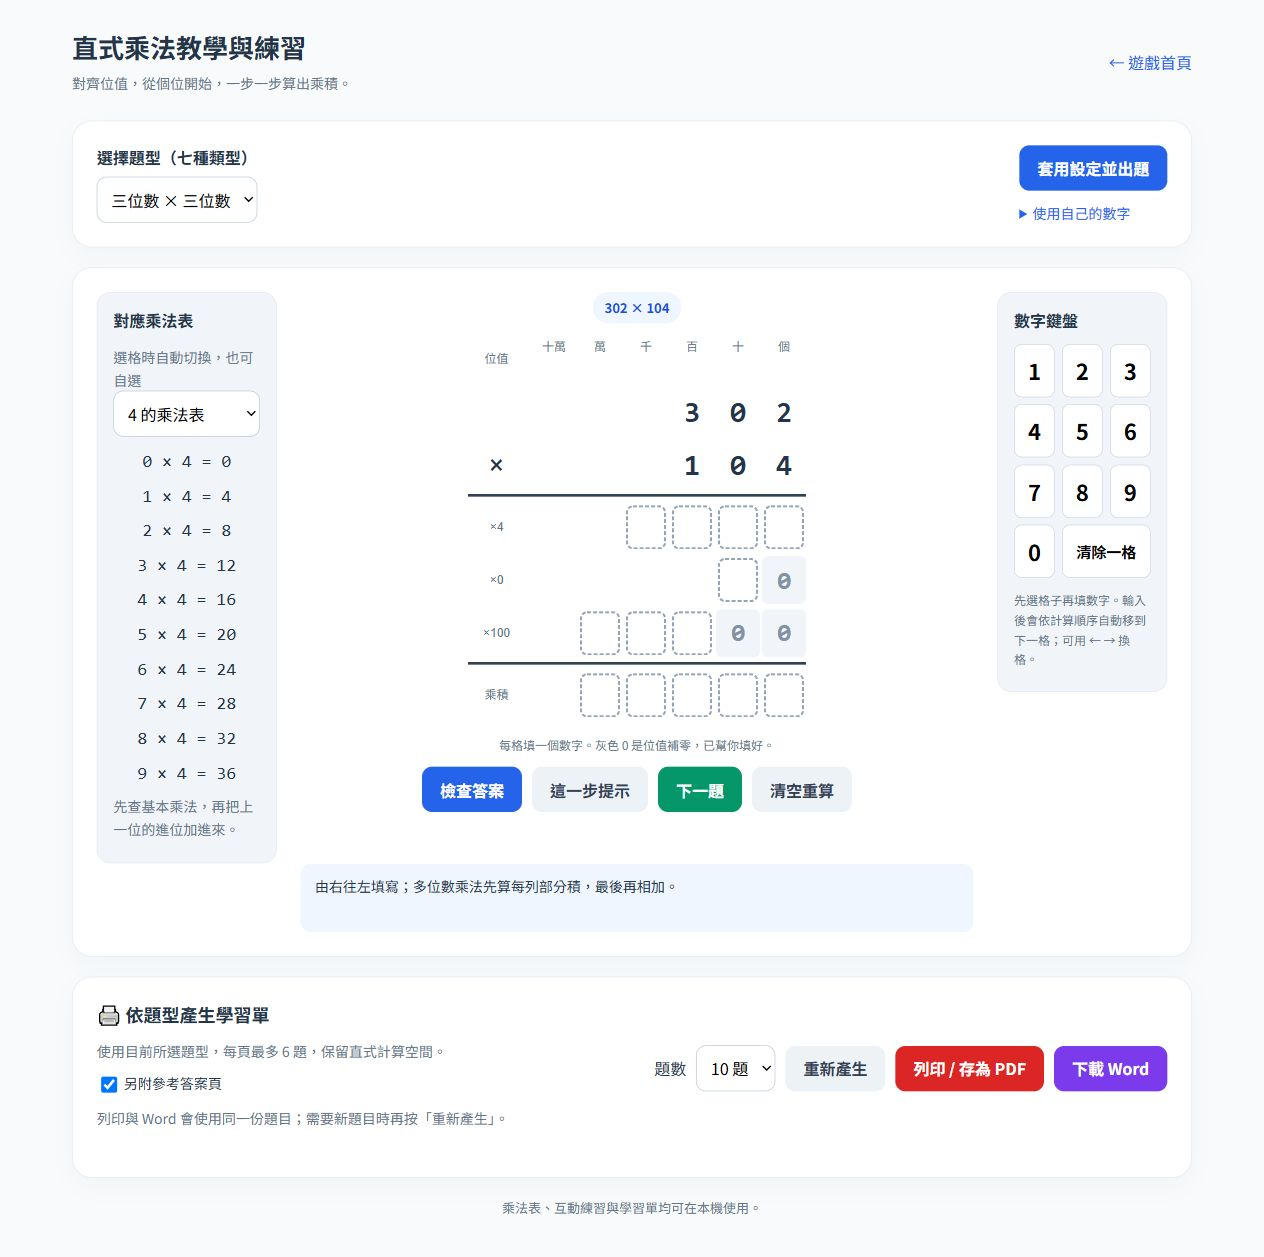
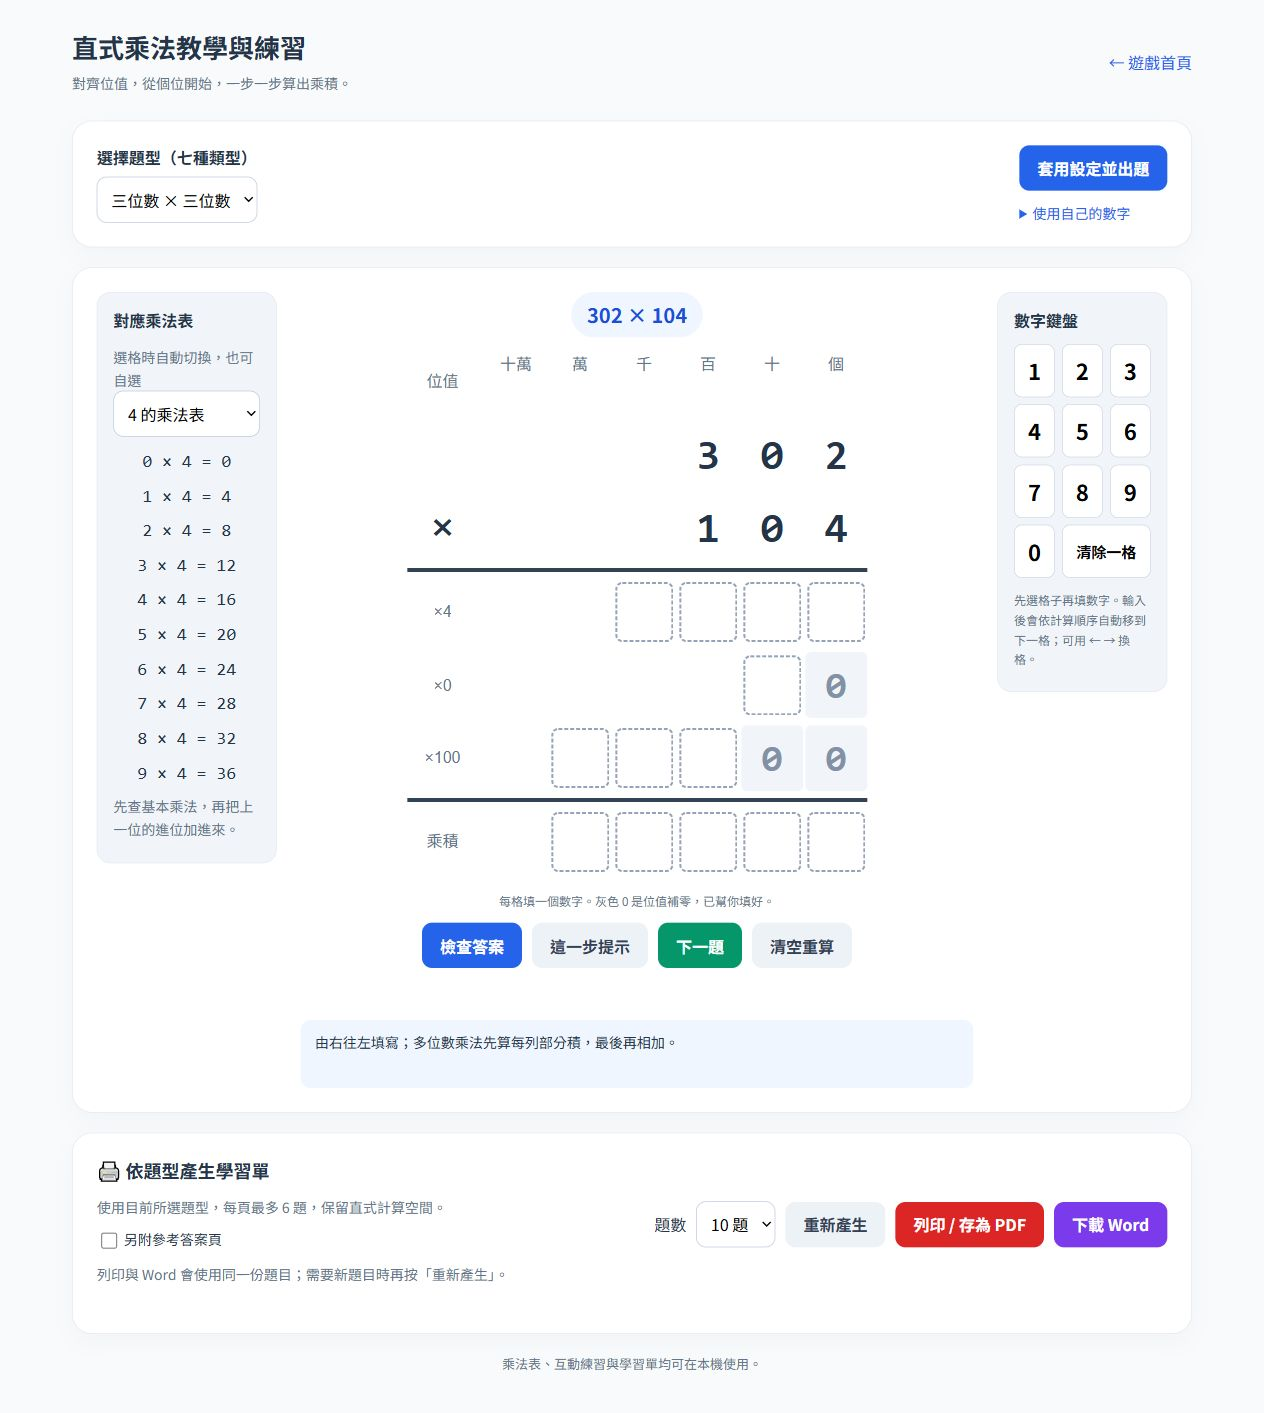
放大乘法中央直式與填答格並保留兩側尺寸

diff --git a/數學互動式乘法與學習單產生.html b/數學互動式乘法與學習單產生.html
@@ -9,6 +9,34 @@
 @media(max-width:950px){.practice{grid-template-columns:155px minmax(0,1fr);gap:16px}.pad{grid-column:1 / -1}.pad-grid{grid-template-columns:repeat(11,1fr)}.erase{grid-column:span 1}.pad-note{margin-bottom:0}.board{--cell:40px}.cell{height:44px}.digit-input{height:40px}}
 @media(max-width:620px){body{padding:14px 10px}header{align-items:flex-start}h1{font-size:21px}.home{font-size:13px}.panel{padding:16px;border-radius:16px}.settings{align-items:stretch;flex-direction:column}.practice{grid-template-columns:minmax(0,1fr)}.helper{grid-row:2}.helper select{max-width:240px}.facts{grid-template-columns:repeat(2,1fr)}.fact{font-size:17px}.pad{grid-row:3;grid-column:auto}.pad-grid{grid-template-columns:repeat(6,1fr)}.erase{grid-column:span 2}.board{--cell:32px;gap:4px 1px}.cell{height:38px;font-size:25px}.cell.label{width:46px;font-size:11px}.digit-input{height:35px;font-size:24px}.worksheet-controls{width:100%}.worksheet-controls .button{flex:1;padding:11px 10px}.controls .button{padding:10px 12px}.hint{min-height:0}.zero{font-size:23px}}
 .cell.label.operator{font-size:27px;color:#243449}.preview{width:min(960px,96vw);height:92vh;border:1px solid #cbd5e1;border-radius:16px;padding:0;background:#f1f5f9}.preview::backdrop{background:#0f172a88}.preview-bar{display:flex;gap:12px;align-items:center;justify-content:space-between;padding:14px;flex-wrap:wrap}.preview-bar p{font-size:13px;margin:0}.preview iframe{display:block;width:100%;height:calc(100% - 110px);border:0;background:white}
+/* 只放大中央直式，維持左右乘法表與數字鍵盤的原有尺寸。 */
+.calculation .badge{font-size:20px;padding:8px 16px}
+.calculation .board{--cell:clamp(58px,calc((100vw - 588px)/6),62px);gap:7px 2px}
+.calculation .cell{height:66px;font-size:42px}
+.calculation .cell.place{height:28px;font-size:16px}
+.calculation .cell.label{width:76px;font-size:16px}
+.calculation .cell.label.operator{font-size:42px}
+.calculation .digit-input{height:60px;font-size:40px}
+.calculation .zero{font-size:38px}
+.calculation .rule{border-top-width:4px}
+@media(max-width:950px){
+    .calculation .board{--cell:44px}
+    .calculation .cell{height:54px;font-size:34px}
+    .calculation .cell.label{width:64px;font-size:14px}
+    .calculation .cell.label.operator{font-size:34px}
+    .calculation .digit-input{height:50px;font-size:32px}
+    .calculation .zero{font-size:30px}
+}
+@media(max-width:620px){
+    .calculation .badge{font-size:18px}
+    .calculation .board{--cell:clamp(32px,calc((100vw - 126px)/6),44px);gap:5px 1px}
+    .calculation .cell{height:46px;font-size:30px}
+    .calculation .cell.place{height:24px;font-size:12px}
+    .calculation .cell.label{width:46px;font-size:12px}
+    .calculation .cell.label.operator{font-size:30px}
+    .calculation .digit-input{height:42px;font-size:28px}
+    .calculation .zero{font-size:28px}
+}
 </style>
 </head>
 <body>
